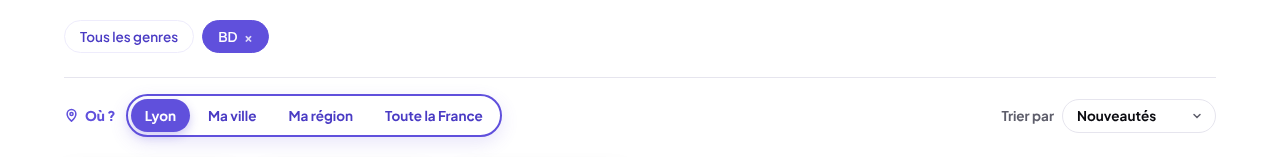
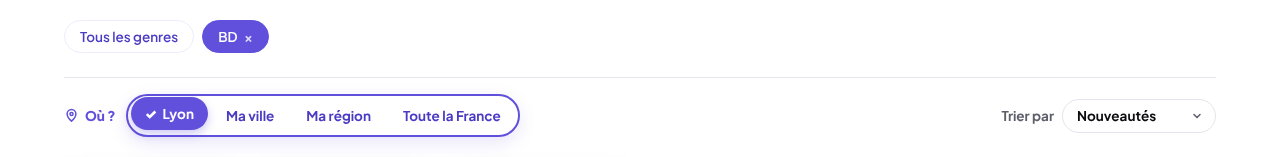
Filtre de lieu : effet au survol, au clic et coche sur le choix sélectionné
Claude-Session: https://claude.ai/code/session_01EPa3evC84KLMU14gb8iTX3

Changed region(s): [[0.0938, 0.586, 0.4062, 0.8917]]

diff --git a/index.html b/index.html
@@ -789,6 +789,14 @@ footer nav{flex-wrap:wrap;gap:10px 24px}
 #locSeg button:hover{background:var(--maj-xl);color:var(--maj)}
 #locSeg button[aria-pressed="true"]{background:var(--maj);color:#fff;box-shadow:0 4px 10px rgba(96,80,220,.3)}
 @media(max-width:560px){.loc-wrap{width:100%}.loc-k{width:100%}}
+/* Filtre de lieu : effet de clic et de sélection */
+#locSeg button{cursor:pointer;transition:transform .18s ease,background .2s,color .2s,box-shadow .2s}
+#locSeg button:hover{transform:translateY(-2px)}
+#locSeg button:active{transform:scale(.94)}
+#locSeg button[aria-pressed="true"]::before{content:"✓";display:inline-block;margin-right:6px;font-weight:900;animation:locCheck .3s ease}
+#locSeg button.pop{animation:locPop .35s cubic-bezier(.3,1.6,.5,1)}
+@keyframes locPop{0%{transform:scale(.9)}60%{transform:scale(1.08)}100%{transform:scale(1)}}
+@keyframes locCheck{from{opacity:0;transform:scale(.3) rotate(-30deg)}to{opacity:1;transform:none}}
 @media(prefers-reduced-motion:reduce){*{transition-duration:.01ms!important;animation:none!important;scroll-behavior:auto!important}}
 </style>
 </head>
@@ -1885,7 +1893,7 @@ $("locRegion").innerHTML=$("bRegion").innerHTML='<option value="">Choisis ta ré
 function locUI(){document.querySelectorAll("#locSeg [data-loc]").forEach(function(b){var k=b.getAttribute("data-loc"),me=myLocation();b.setAttribute("aria-pressed",k===catLoc);
   if(k==="ville")b.textContent=me.ville?"Ma ville · "+me.ville.replace(/\s+\d+.*$/,""):"Ma ville";
   if(k==="region")b.textContent=me.region?"Ma région · "+({"Auvergne-Rhône-Alpes":"AURA","Provence-Alpes-Côte d’Azur":"PACA","Bourgogne-Franche-Comté":"BFC","Centre-Val de Loire":"Centre"}[me.region]||me.region):"Ma région";})}
-$("locSeg").addEventListener("click",function(e){var b=e.target.closest("[data-loc]");if(!b)return;var k=b.getAttribute("data-loc"),me=myLocation();
+$("locSeg").addEventListener("click",function(e){var b=e.target.closest("[data-loc]");if(!b)return;b.classList.remove("pop");void b.offsetWidth;b.classList.add("pop");var k=b.getAttribute("data-loc"),me=myLocation();
   if((k==="ville"&&!me.ville)||(k==="region"&&!me.region)){$("locAsk").hidden=false;$("locAsk").dataset.want=k;$("locVille").value=me.ville||"";$("locRegion").value=me.region||"";$("locVille").focus();return}
   $("locAsk").hidden=true;catLoc=k;catLimit=8;locUI();renderGrid();searchNote()});
 $("locVille").addEventListener("input",function(){var r=regionOf(this.value);if(r)$("locRegion").value=r});
